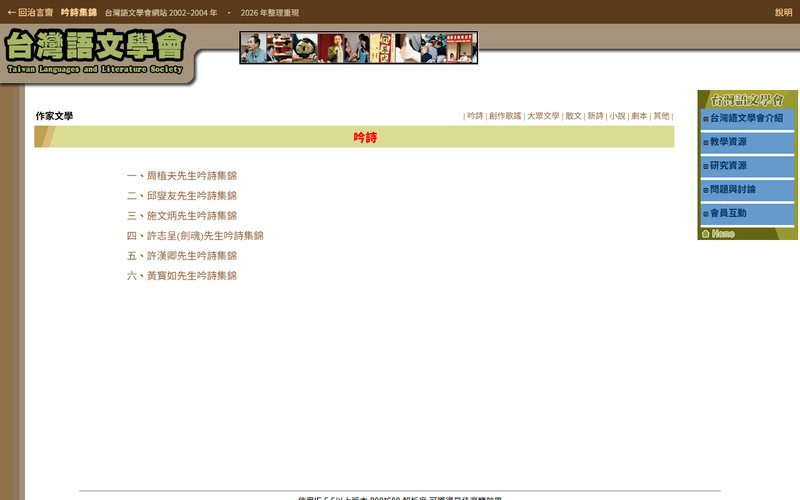
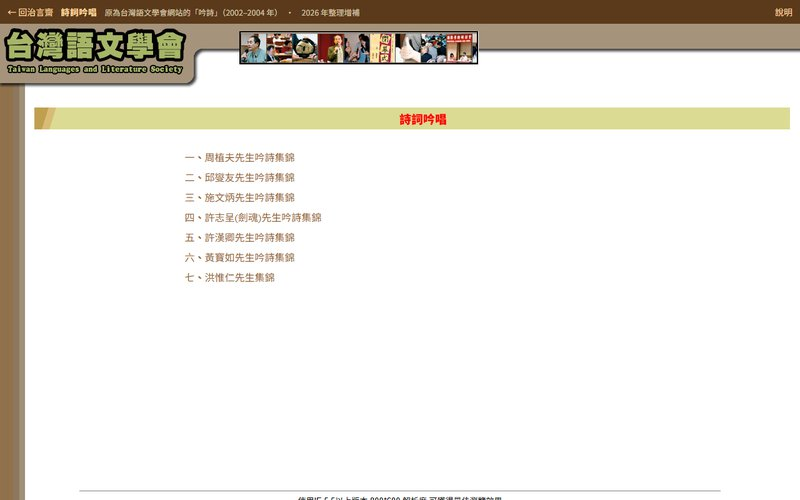
網站: 研究 gains the 論文精進諮詢會 card (first session 2026-08-22, links to the YouTube video, which opens in a new tab); 詩詞吟唱 card text and screenshot follow the renamed sub-site

Changed region(s): [[0.0312, 0.18, 1.0, 0.57], [0.0625, 0.0, 0.4688, 0.06]]

diff --git a/layouts/sites/list.html b/layouts/sites/list.html
@@ -21,7 +21,7 @@
         {{ range where $pages "Params.category" $cat }}
         {{ if .Params.image }}
         <li>
-          <a href="{{ .Params.link }}">
+          <a href="{{ .Params.link }}"{{ if hasPrefix .Params.link "http" }} target="_blank" rel="noopener"{{ end }}>
             <span class="sites-shot"><img src="{{ .Params.image }}" alt="" loading="lazy" width="800" height="500"></span>
             <span class="sites-title">{{ .Params.short_title | default .Title }}</span>
             <span class="sites-meta">{{ with .Params.years }}<span class="sites-years">{{ . }}</span>{{ end }}{{ .Params.summary }}</span>

diff --git a/layouts/partials/nav-items.html b/layouts/partials/nav-items.html
@@ -26,7 +26,7 @@
     {{ else if eq $item.sub "sites" }}
       {{ range .RegularPages.ByWeight }}
         {{ if and .Params.link .Params.image }}
-          {{ $out = $out | append (dict "name" (.Params.short_title | default .Title) "url" .Params.link "external" false "group" .Params.category) }}
+          {{ $out = $out | append (dict "name" (.Params.short_title | default .Title) "url" .Params.link "external" (hasPrefix .Params.link "http") "group" .Params.category) }}
         {{ end }}
       {{ end }}
     {{ else if eq $item.sub "tabs" }}

diff --git a/content/sites/2002-吟詩集錦.md b/content/sites/2002-吟詩集錦.md
@@ -2,11 +2,11 @@
 title: 詩詞吟唱
 date_text: '2002'
 link: /gimsi/
-source: 2002–2004 年為台灣語文學會網站（教育部資助教學計畫補助設立）製作：周植夫、邱燮友、施文炳、許志呈、許漢卿、黃寶如六位先生吟誦古典詩的錄音，其中五位逐字標了台語讀音。2026 年自舊主機備份整理重現，鹿港三位詩人的錄音依洪教授電腦裡的原始錄音補上；邱燮友先生有 8 段錄音還沒有找到。
+source: 2002–2004 年為台灣語文學會網站（教育部資助教學計畫補助設立）製作：周植夫、邱燮友、施文炳、許志呈、許漢卿、黃寶如六位先生吟誦古典詩的錄音，其中五位逐字標了台語讀音。2026 年自舊主機備份整理重現，鹿港三位詩人的錄音依洪教授電腦裡的原始錄音補上；邱燮友先生有 8 段錄音還沒有找到。2026 年 11 月依洪教授的意思改名「詩詞吟唱」，新增「洪惟仁先生集錦」，收他在治言齋學堂吟詩、吟詞的影片。
 category: 文學
 weight: 23
 image: /images/sites/gimsi.jpg
 short_title: 詩詞吟唱
 years: '2002'
-summary: 六位先生吟誦古典詩的錄音
+summary: 六位先生的吟詩錄音，以及洪惟仁吟詩、吟詞的影片
 ---

diff --git a/content/sites/2026-08-22-論文精進諮詢會.md b/content/sites/2026-08-22-論文精進諮詢會.md
@@ -1,0 +1,12 @@
+---
+title: 《語言地理歷史跨領域研究論文集》論文精進諮詢會
+date_text: 2026/08/22
+link: https://www.youtube.com/watch?v=N5CqCjUdrhg
+source: 洪惟仁主持。第一次 2026/08/22：李壬癸院士〈歷史語言學與台灣歷史、地理、物種與族群〉、臧振華院士〈臺灣考古學與人類大歷史的交匯〉（YouTube 精華版）。
+category: 研究
+weight: 3
+image: /images/sites/consult.jpg
+short_title: 論文精進諮詢會
+years: '2026'
+summary: 第一次（8/22）：李壬癸、臧振華兩位院士
+---

diff --git a/content/sites/2004-民間歌謠教學研究網-原版.md b/content/sites/2004-民間歌謠教學研究網-原版.md
@@ -4,7 +4,7 @@ date_text: '2004'
 link: /taiwansong/
 source: 2004 年元智大學補助製作的原始版本，2008 年前後增補：486 首歌謠的歌詞、中譯、演唱影片與說明，歌手分佈地圖，五本相褒歌專著掃描。原以 Flash 與 QuickTime 製作，2026 年以 Ruffle 模擬器重現，演唱影片改嵌 YouTube。2024 年另有更版（見上）。
 category: 相褒歌
-weight: 4
+weight: 5
 image: /images/sites/taiwansong.jpg
 short_title: 民間歌謠教學研究網
 years: '2004–2008'

diff --git a/content/sites/2024-11-20-民間歌謠網站.md b/content/sites/2024-11-20-民間歌謠網站.md
@@ -4,7 +4,7 @@ date_text: 2024/11/20
 link: /song/
 source: 2004年元智大學補助製作，載於本人個人網站上，2024更版。
 category: 相褒歌
-weight: 3
+weight: 4
 image: /images/sites/song.jpg
 short_title: 民間歌謠網站
 years: '2004 建置，2024 更版'
